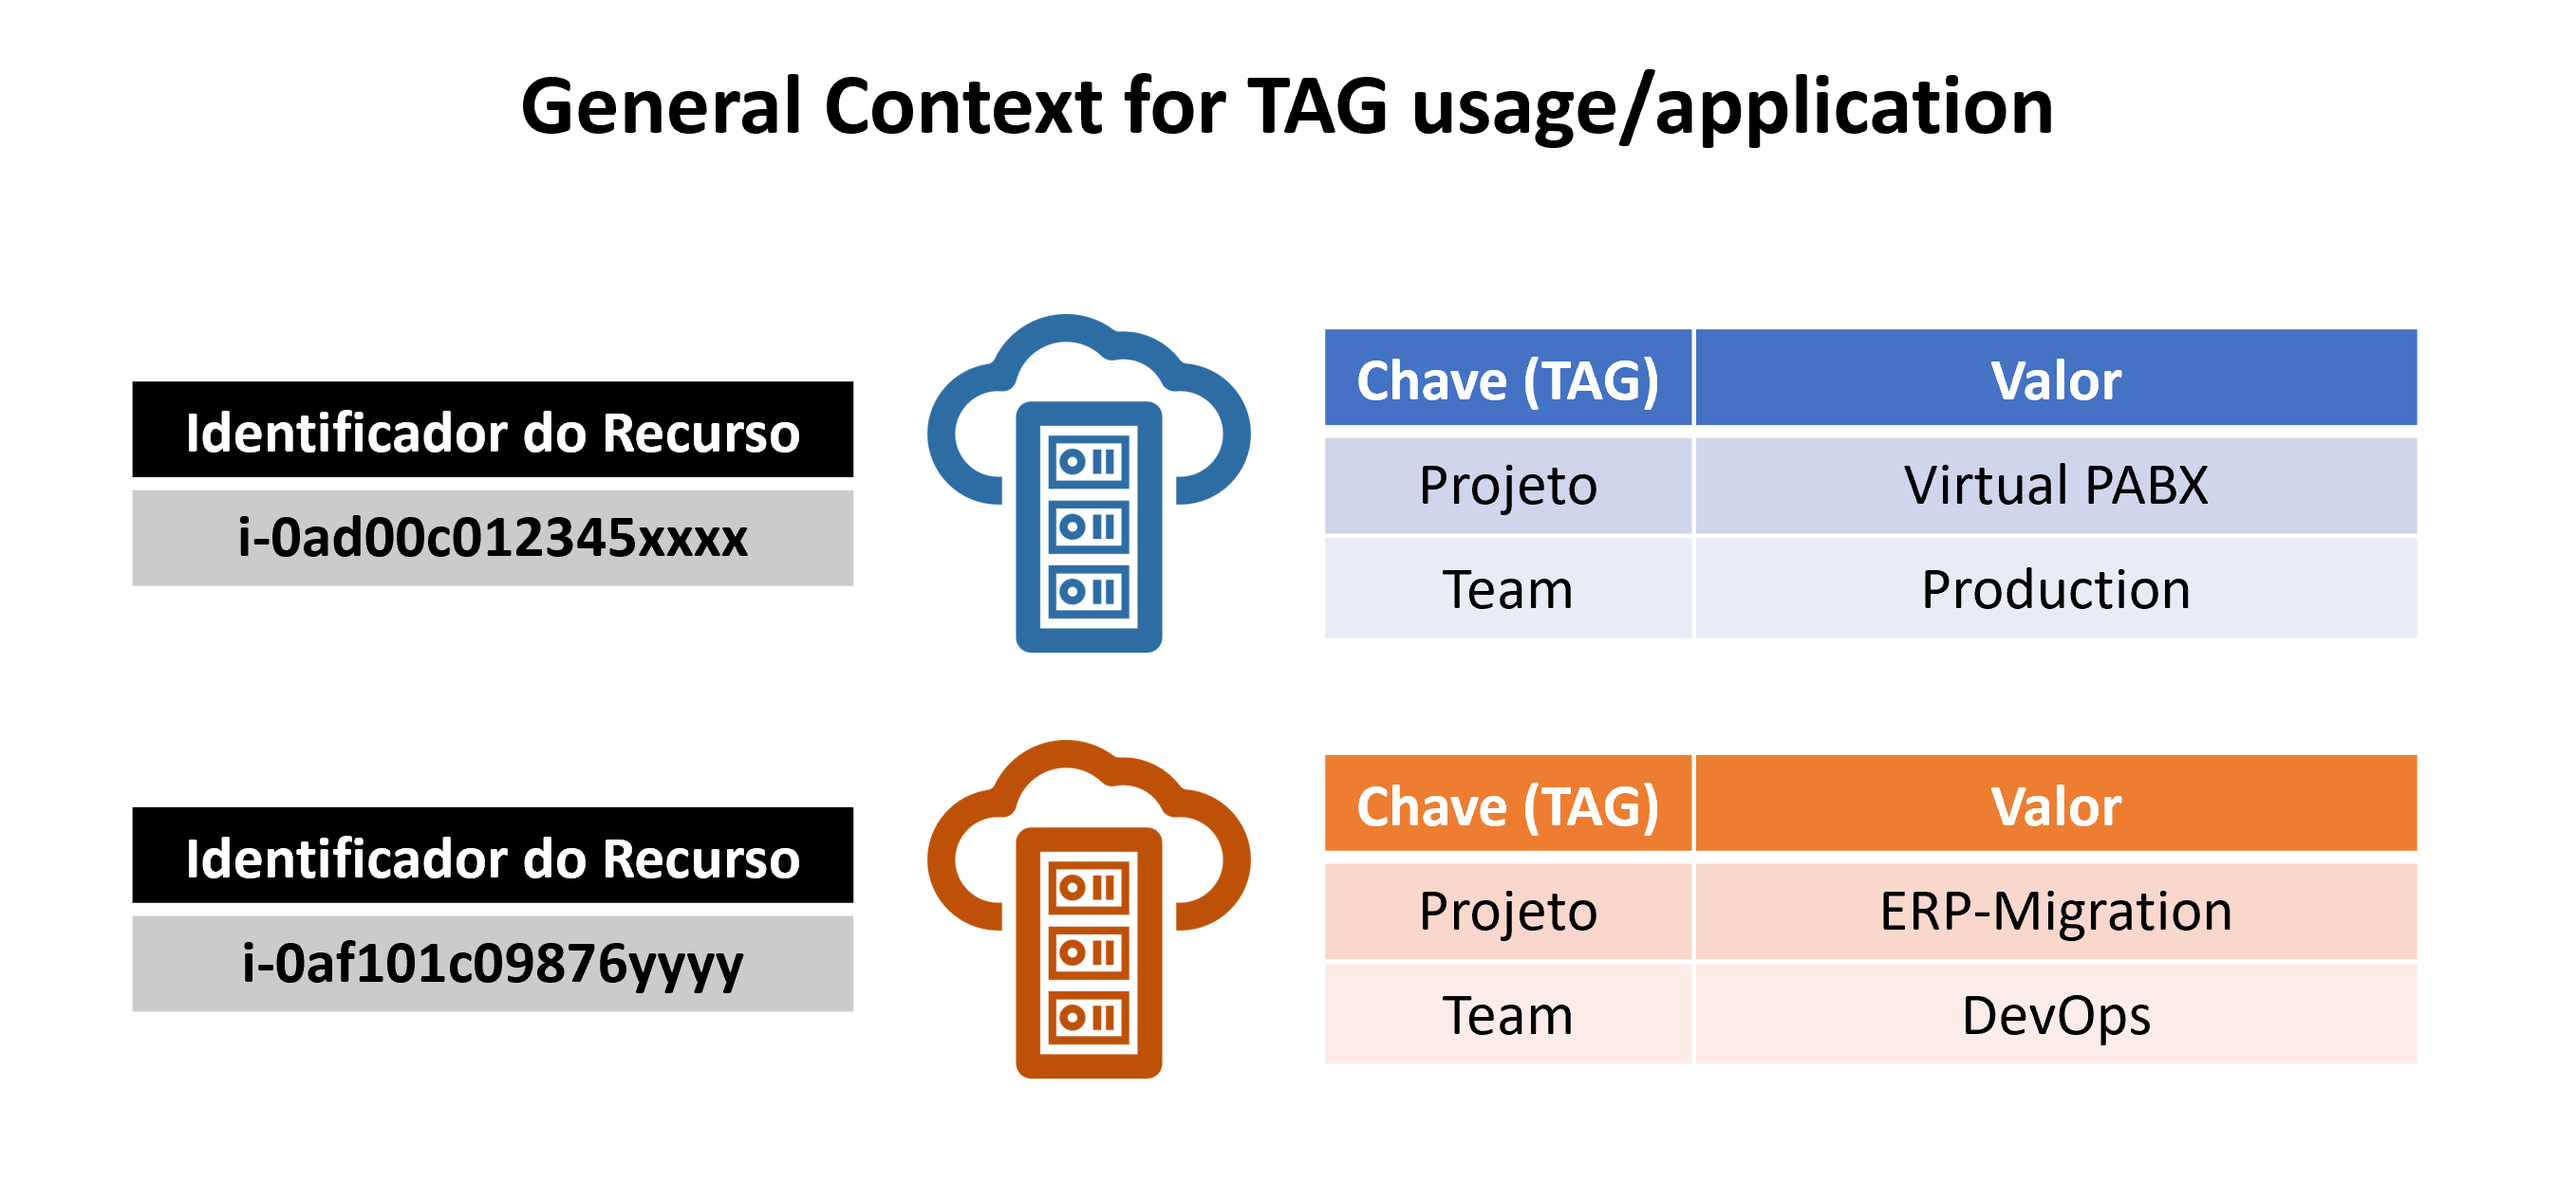
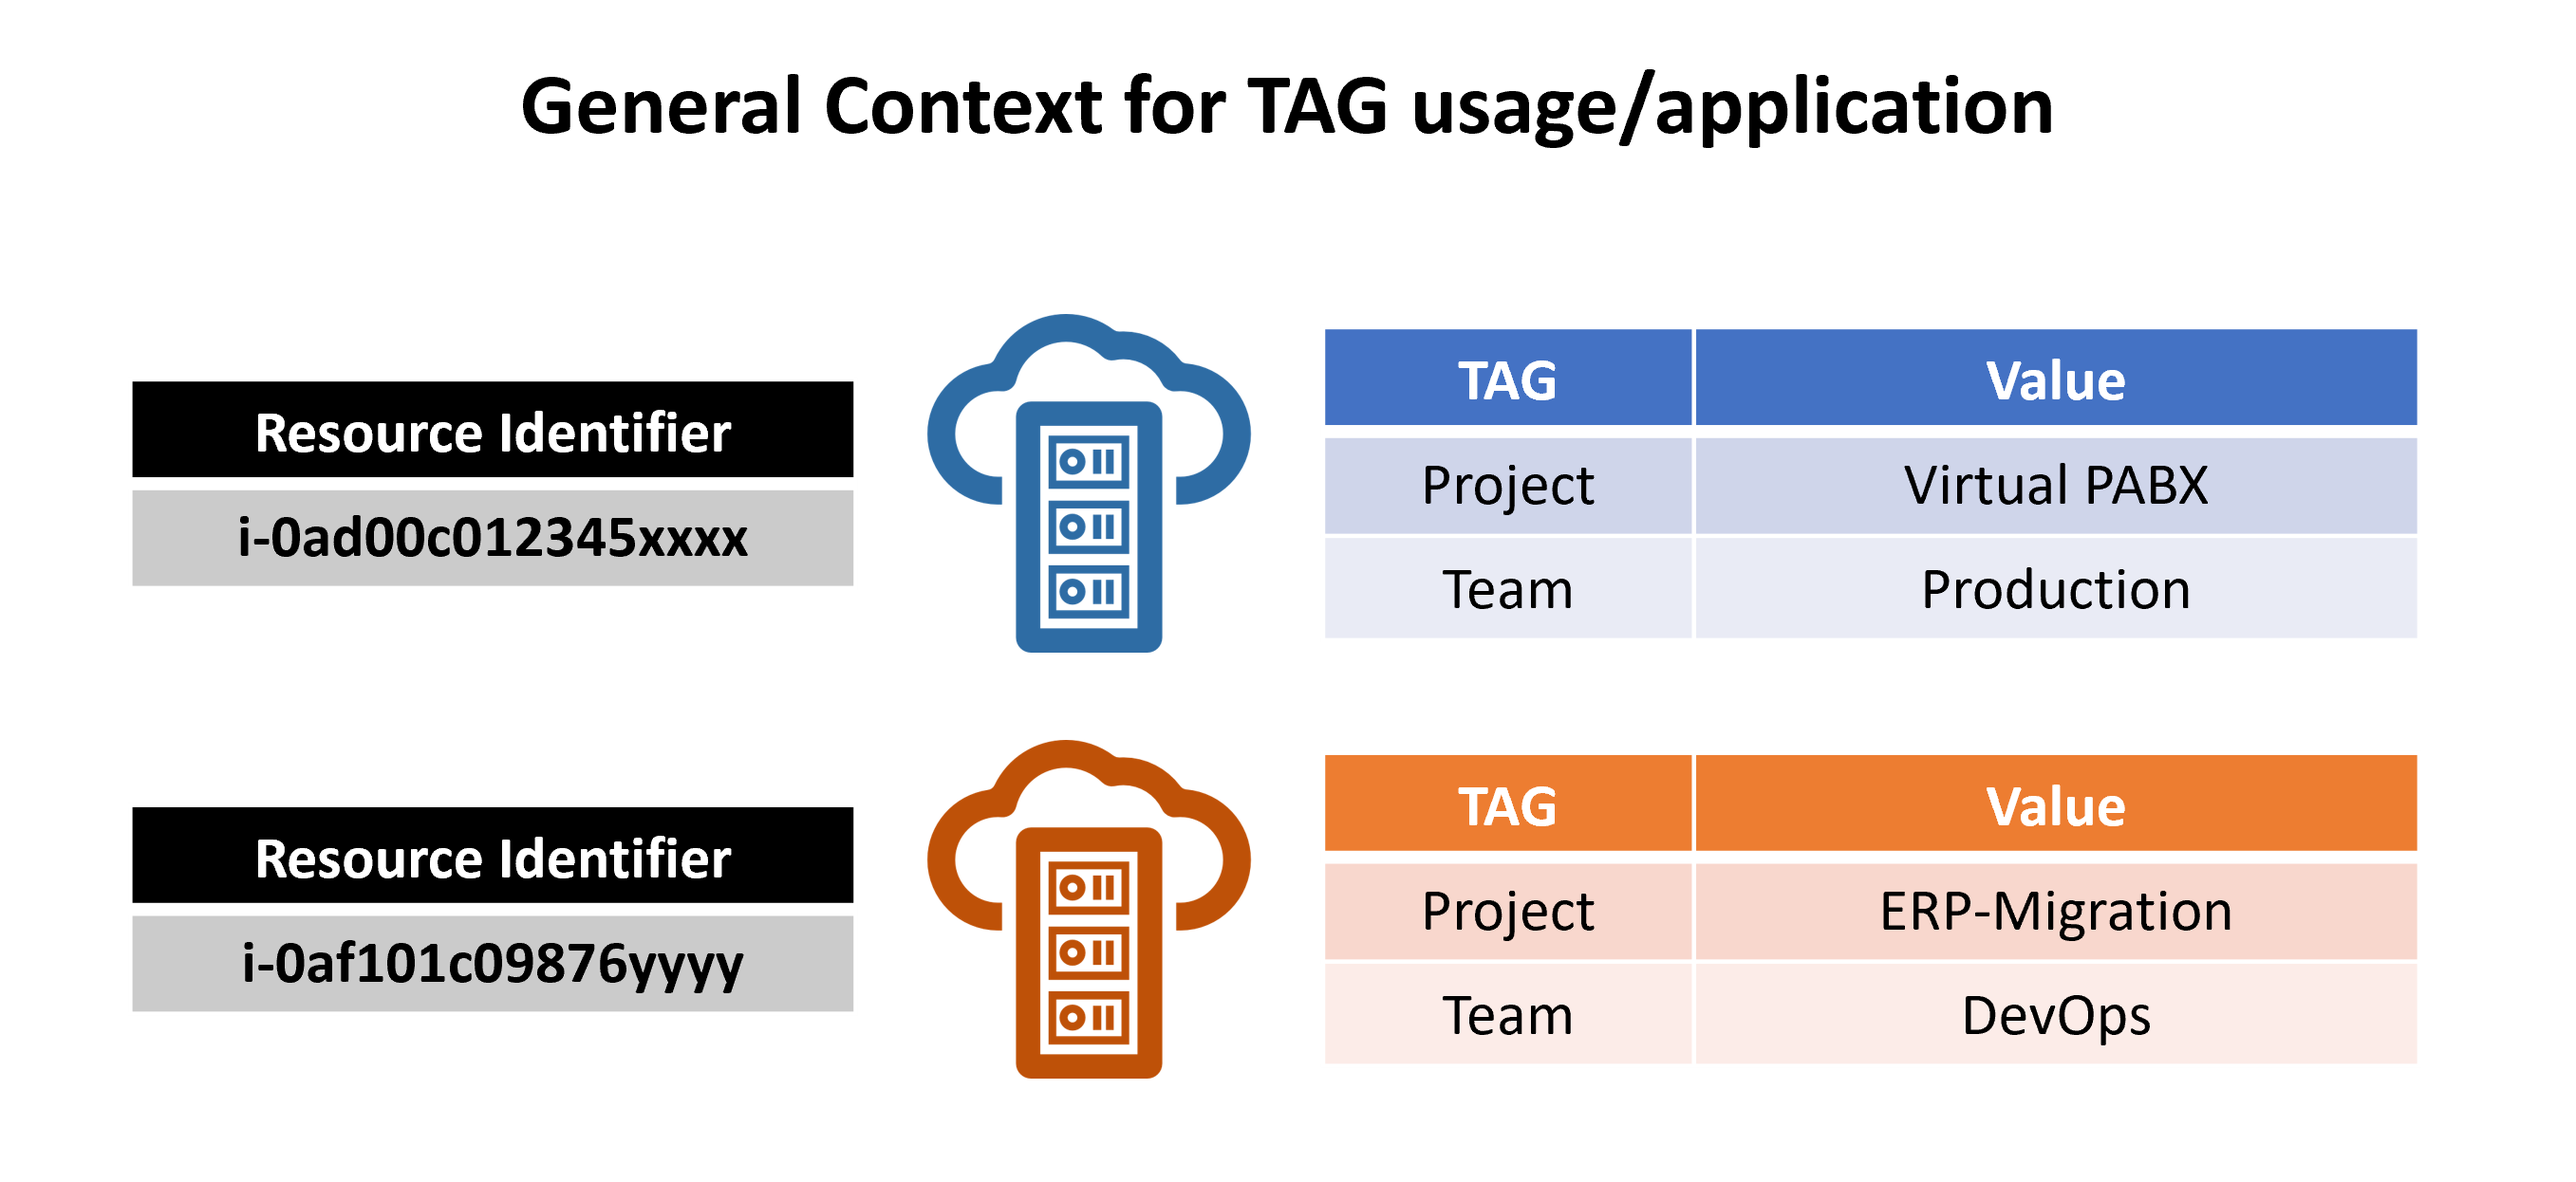
Inserindo imagem traduzida

diff --git a/Release-Notes/release-notes.ing-ucloud-2022-mayo.rst b/Release-Notes/release-notes.ing-ucloud-2022-mayo.rst
@@ -270,9 +270,9 @@ We mentioned above that the process of linking a TAGs to a resource is manual, t
 The new uCloud Platform Virtual TAGs functionality creates an automation for the TAGs linking process to existing resources in the public cloud service provider’s environment.
 The uCloud Platform Virtual TAG process may automatically link a specific TAG to a resource to be selected based on Product Name and/or Product Family and/or Resource Identifier. It’s important to highlight the conjunction “and/or” shows the high granularity degree the user can select to attend to their specific use of their need.
 
-See below how the new Virtual TAGs implementation allows to automate the TAGs link in resources. 
+See below how the new Virtual TAGs implementation allows to automate the TAGs link in resources.
 
-.. figure:: /figuras/fig_release_note_maio_ing/ucloud_tabela_tag_virtal_maio_ing0001.png
+.. figure:: /figuras/figuras-release-notes-ingles-espanhol/ucloud_menu_configuracao_tag_virtual001-en-us.png
    :align: center
 
 ----
